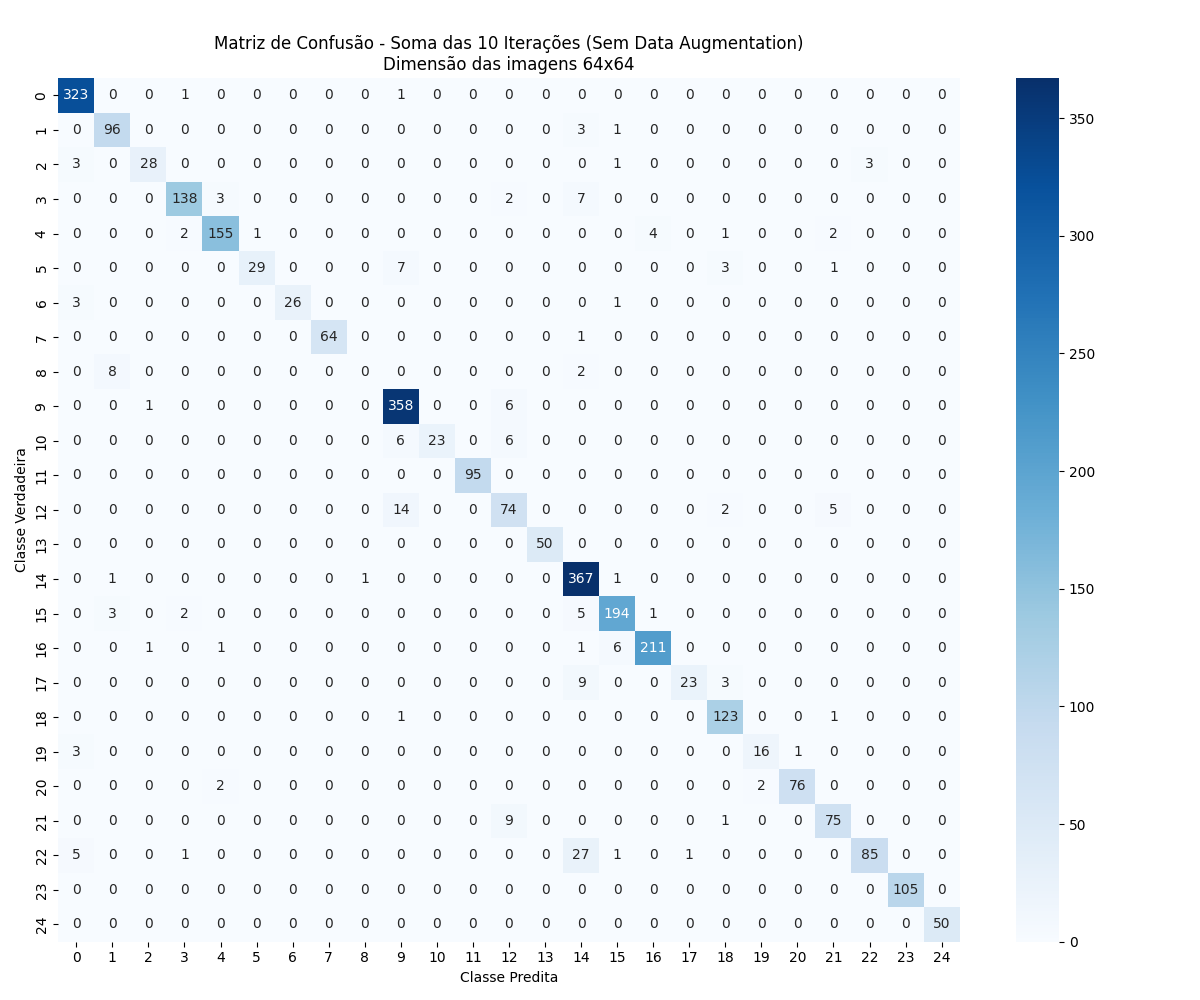
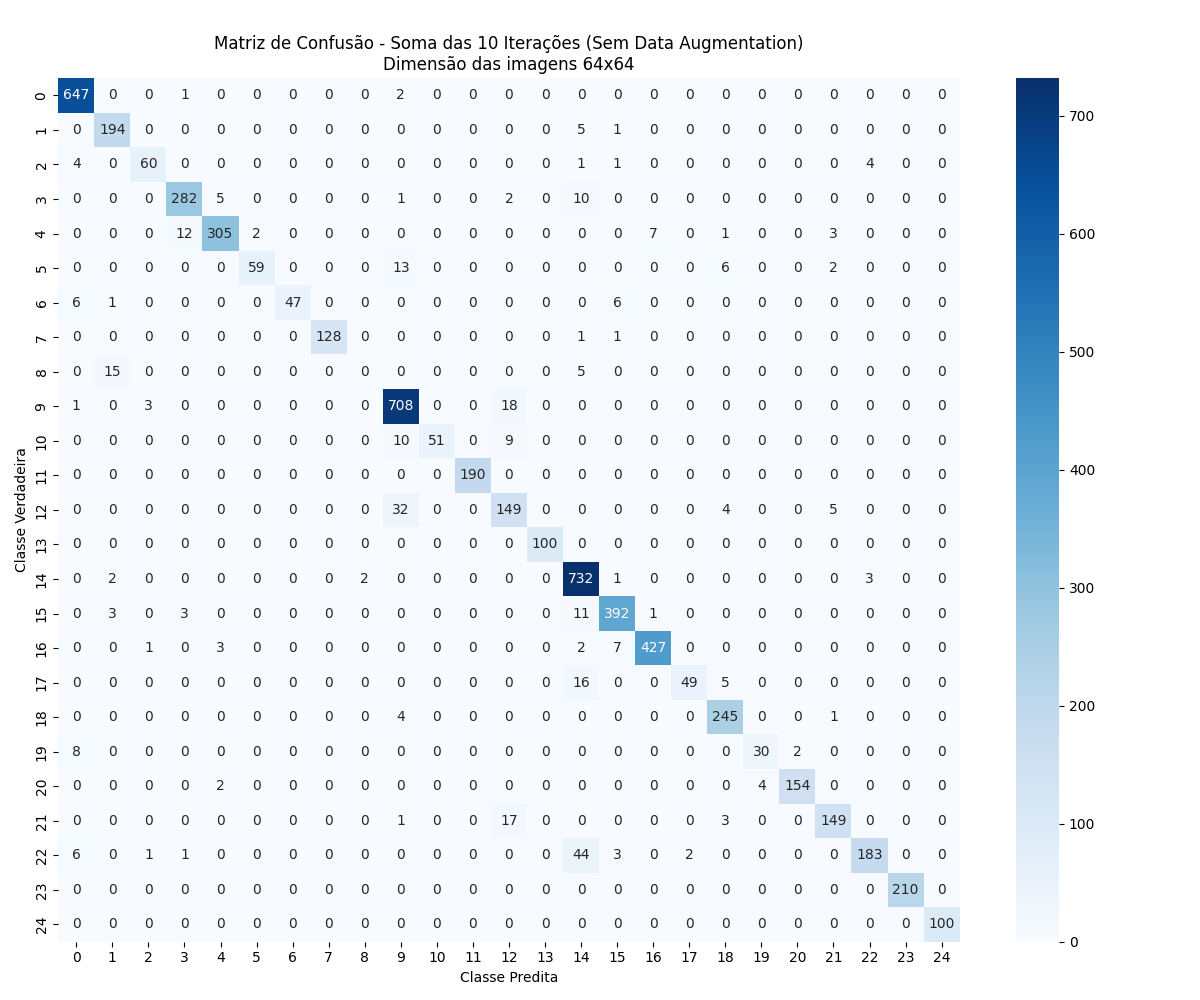
feat: passando a salvar o dataset sem divisões no .npz

diff --git a/src/classificacao_knn.py b/src/classificacao_knn.py
@@ -20,14 +20,8 @@ relatorio_por_classe = defaultdict(lambda: {'precision': [], 'recall': [], 'f1-s
 
 # carrega o dataset pré-processado
 data = np.load('dataset_preprocessado.npz')
-X_train_total = data['X_train']
-y_train_total = data['y_train']
-X_test_total = data['X_test']
-y_test_total = data['y_test']
-
-# junta tudo para reembaralhar nas iterações
-X_total = np.concatenate((X_train_total, X_test_total), axis=0)
-y_total = np.concatenate((y_train_total, y_test_total), axis=0)
+X_total = data['X_total']
+y_total = data['y_total']
 
 # inicializa listas para armazenar resultados
 acuracias = []

diff --git a/principal.py b/principal.py
@@ -33,13 +33,13 @@ for label in range(25):
 X = np.array(X).reshape(-1, dimensao_imagem, dimensao_imagem, 1)
 y = np.array(y)
 
+# salva os arrays para uso posterior no classificacao_knn.py
+np.savez('dataset_preprocessado.npz', X_total=X, y_total=y)
+
 # divisão treino/teste (80/20)
 X_train, X_test, y_train, y_test = train_test_split(
     X, y, test_size=0.2, random_state=42, stratify=y
 )
-
-# salva os arrays para uso posterior
-np.savez('dataset_preprocessado.npz', X_train=X_train, y_train=y_train, X_test=X_test, y_test=y_test)
 
 # exibe as quantidades
 print(f"Imagens carregadas: {len(X)}")

diff --git a/src/variaveis.py b/src/variaveis.py
@@ -1,3 +1,3 @@
-dimensao_imagem = 64
+dimensao_imagem = 32
 data_augmentation_flag = 0 # flag para identificar se o data augmentation está sendo realizado
 remover_bordas_flag = 0 # flag para identificar se a remoção de bordas está sendo realizada
